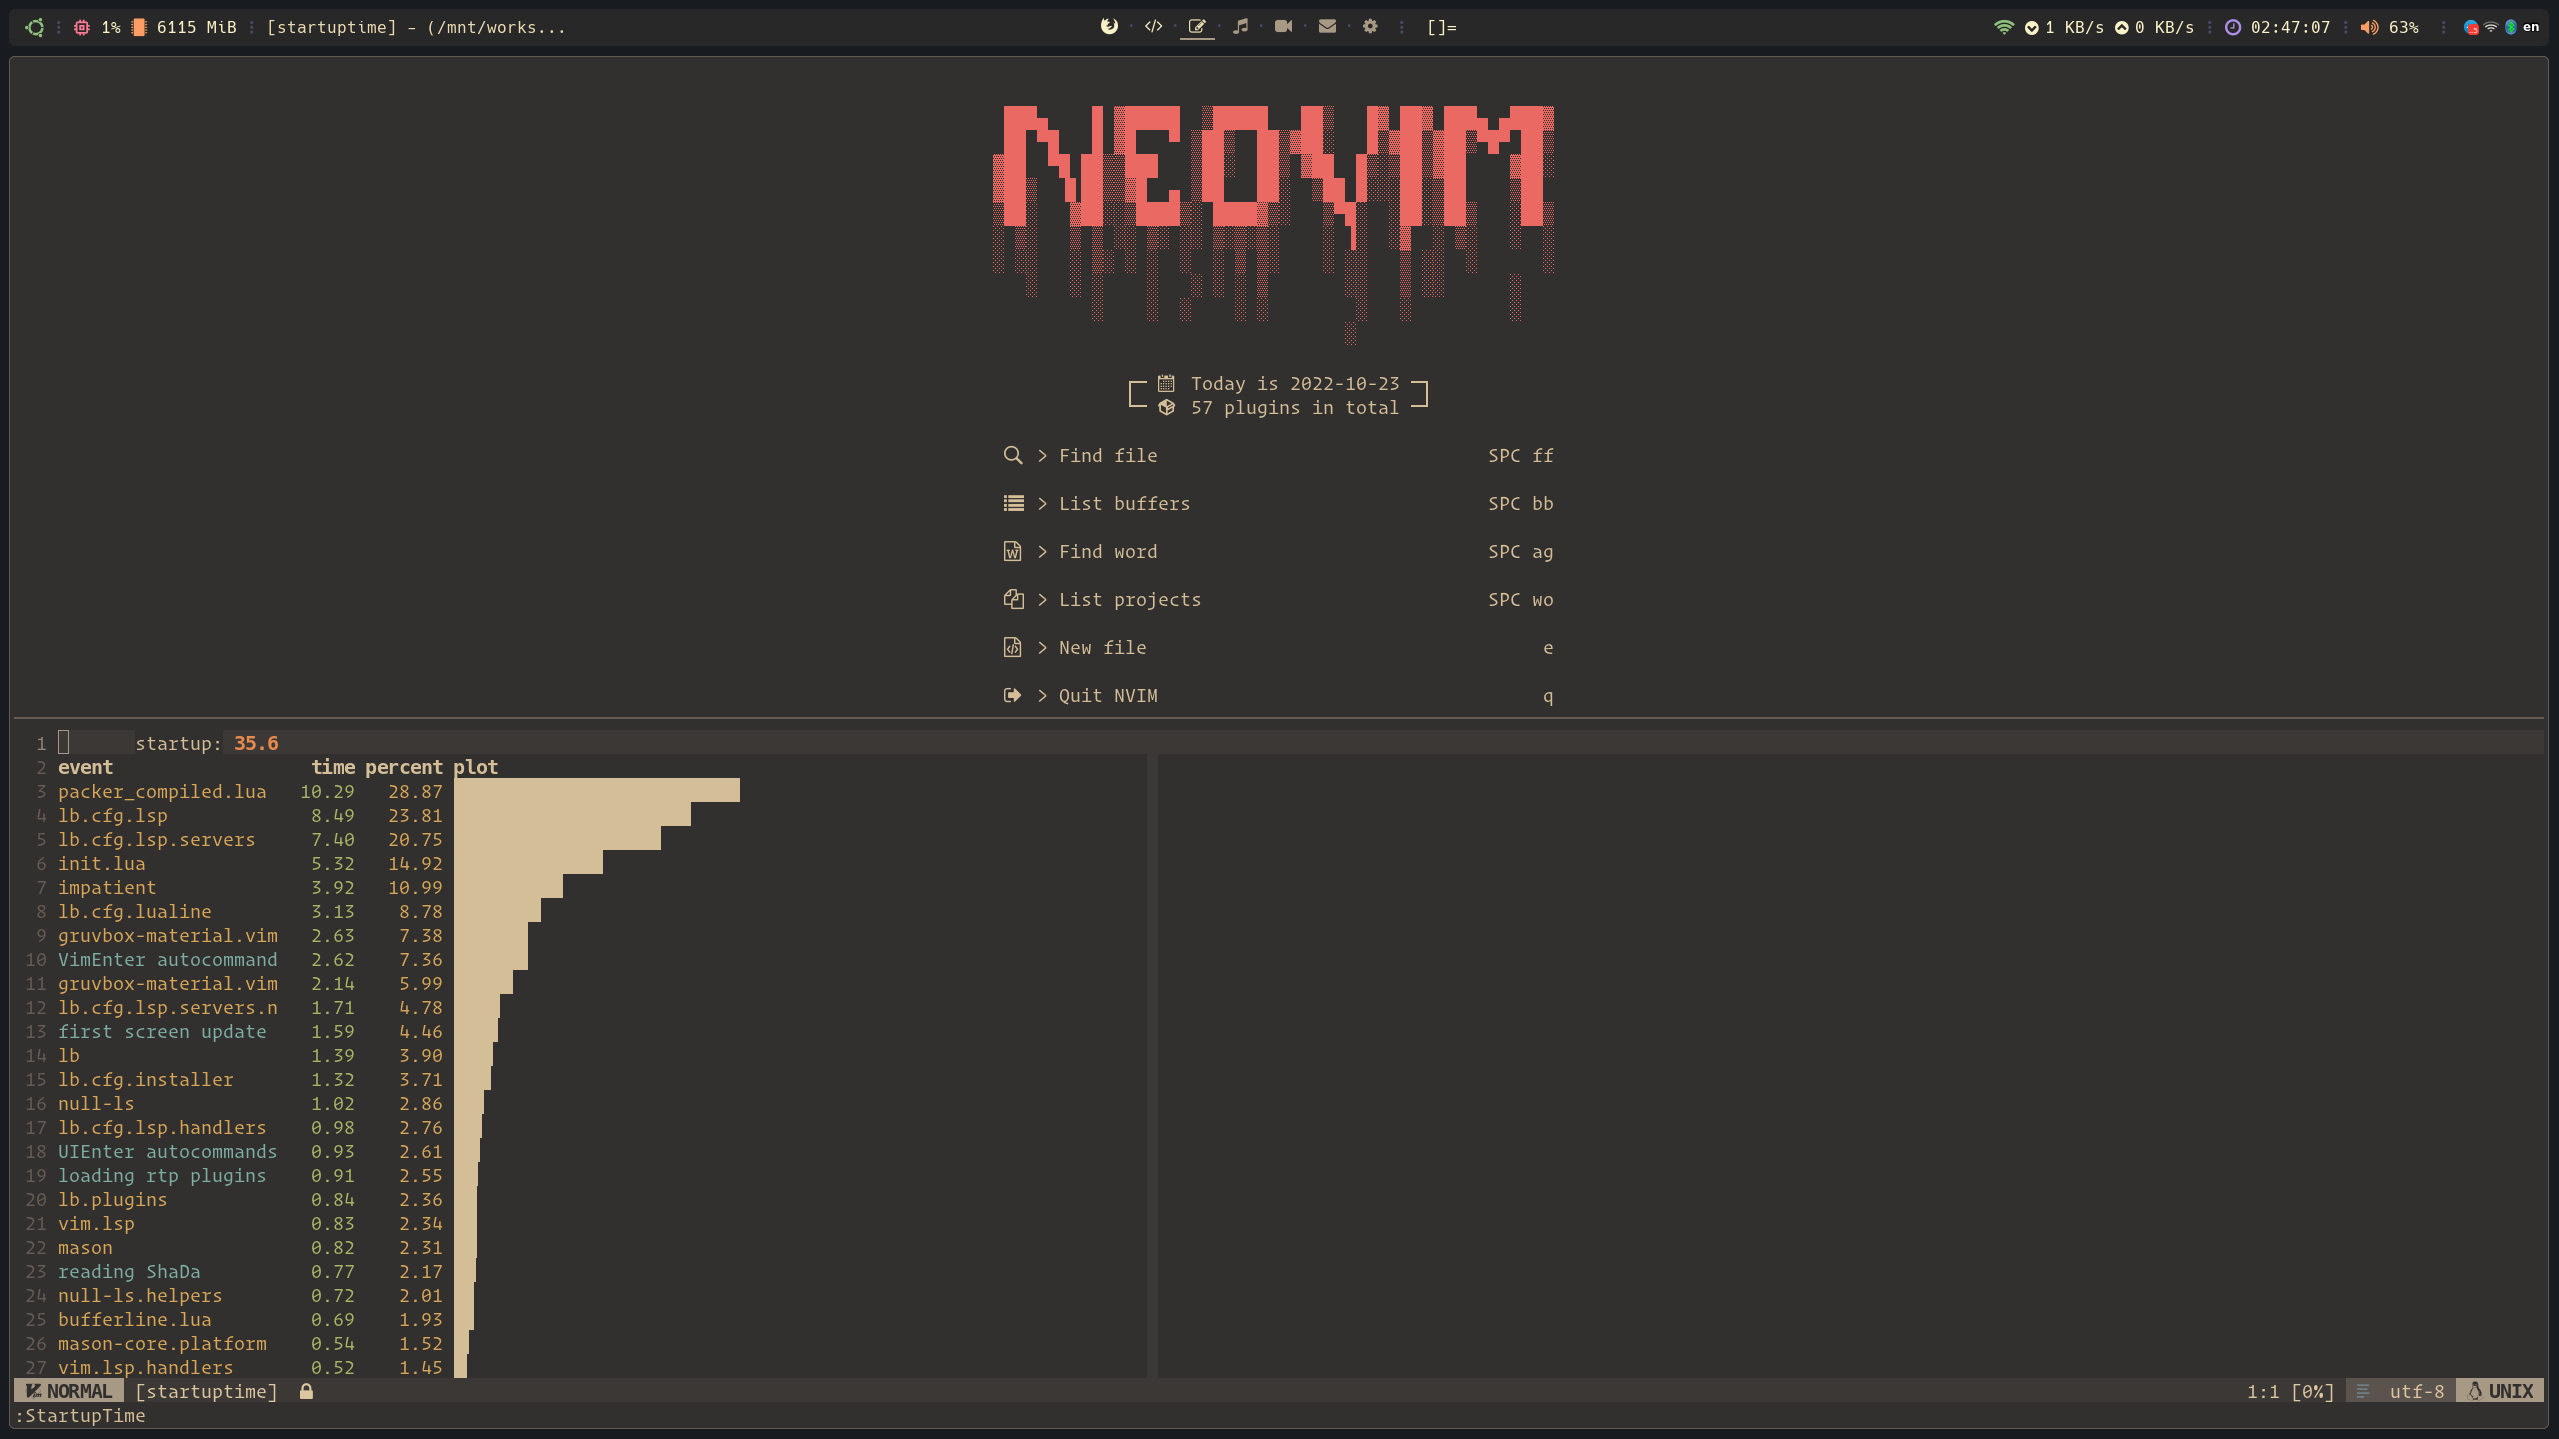
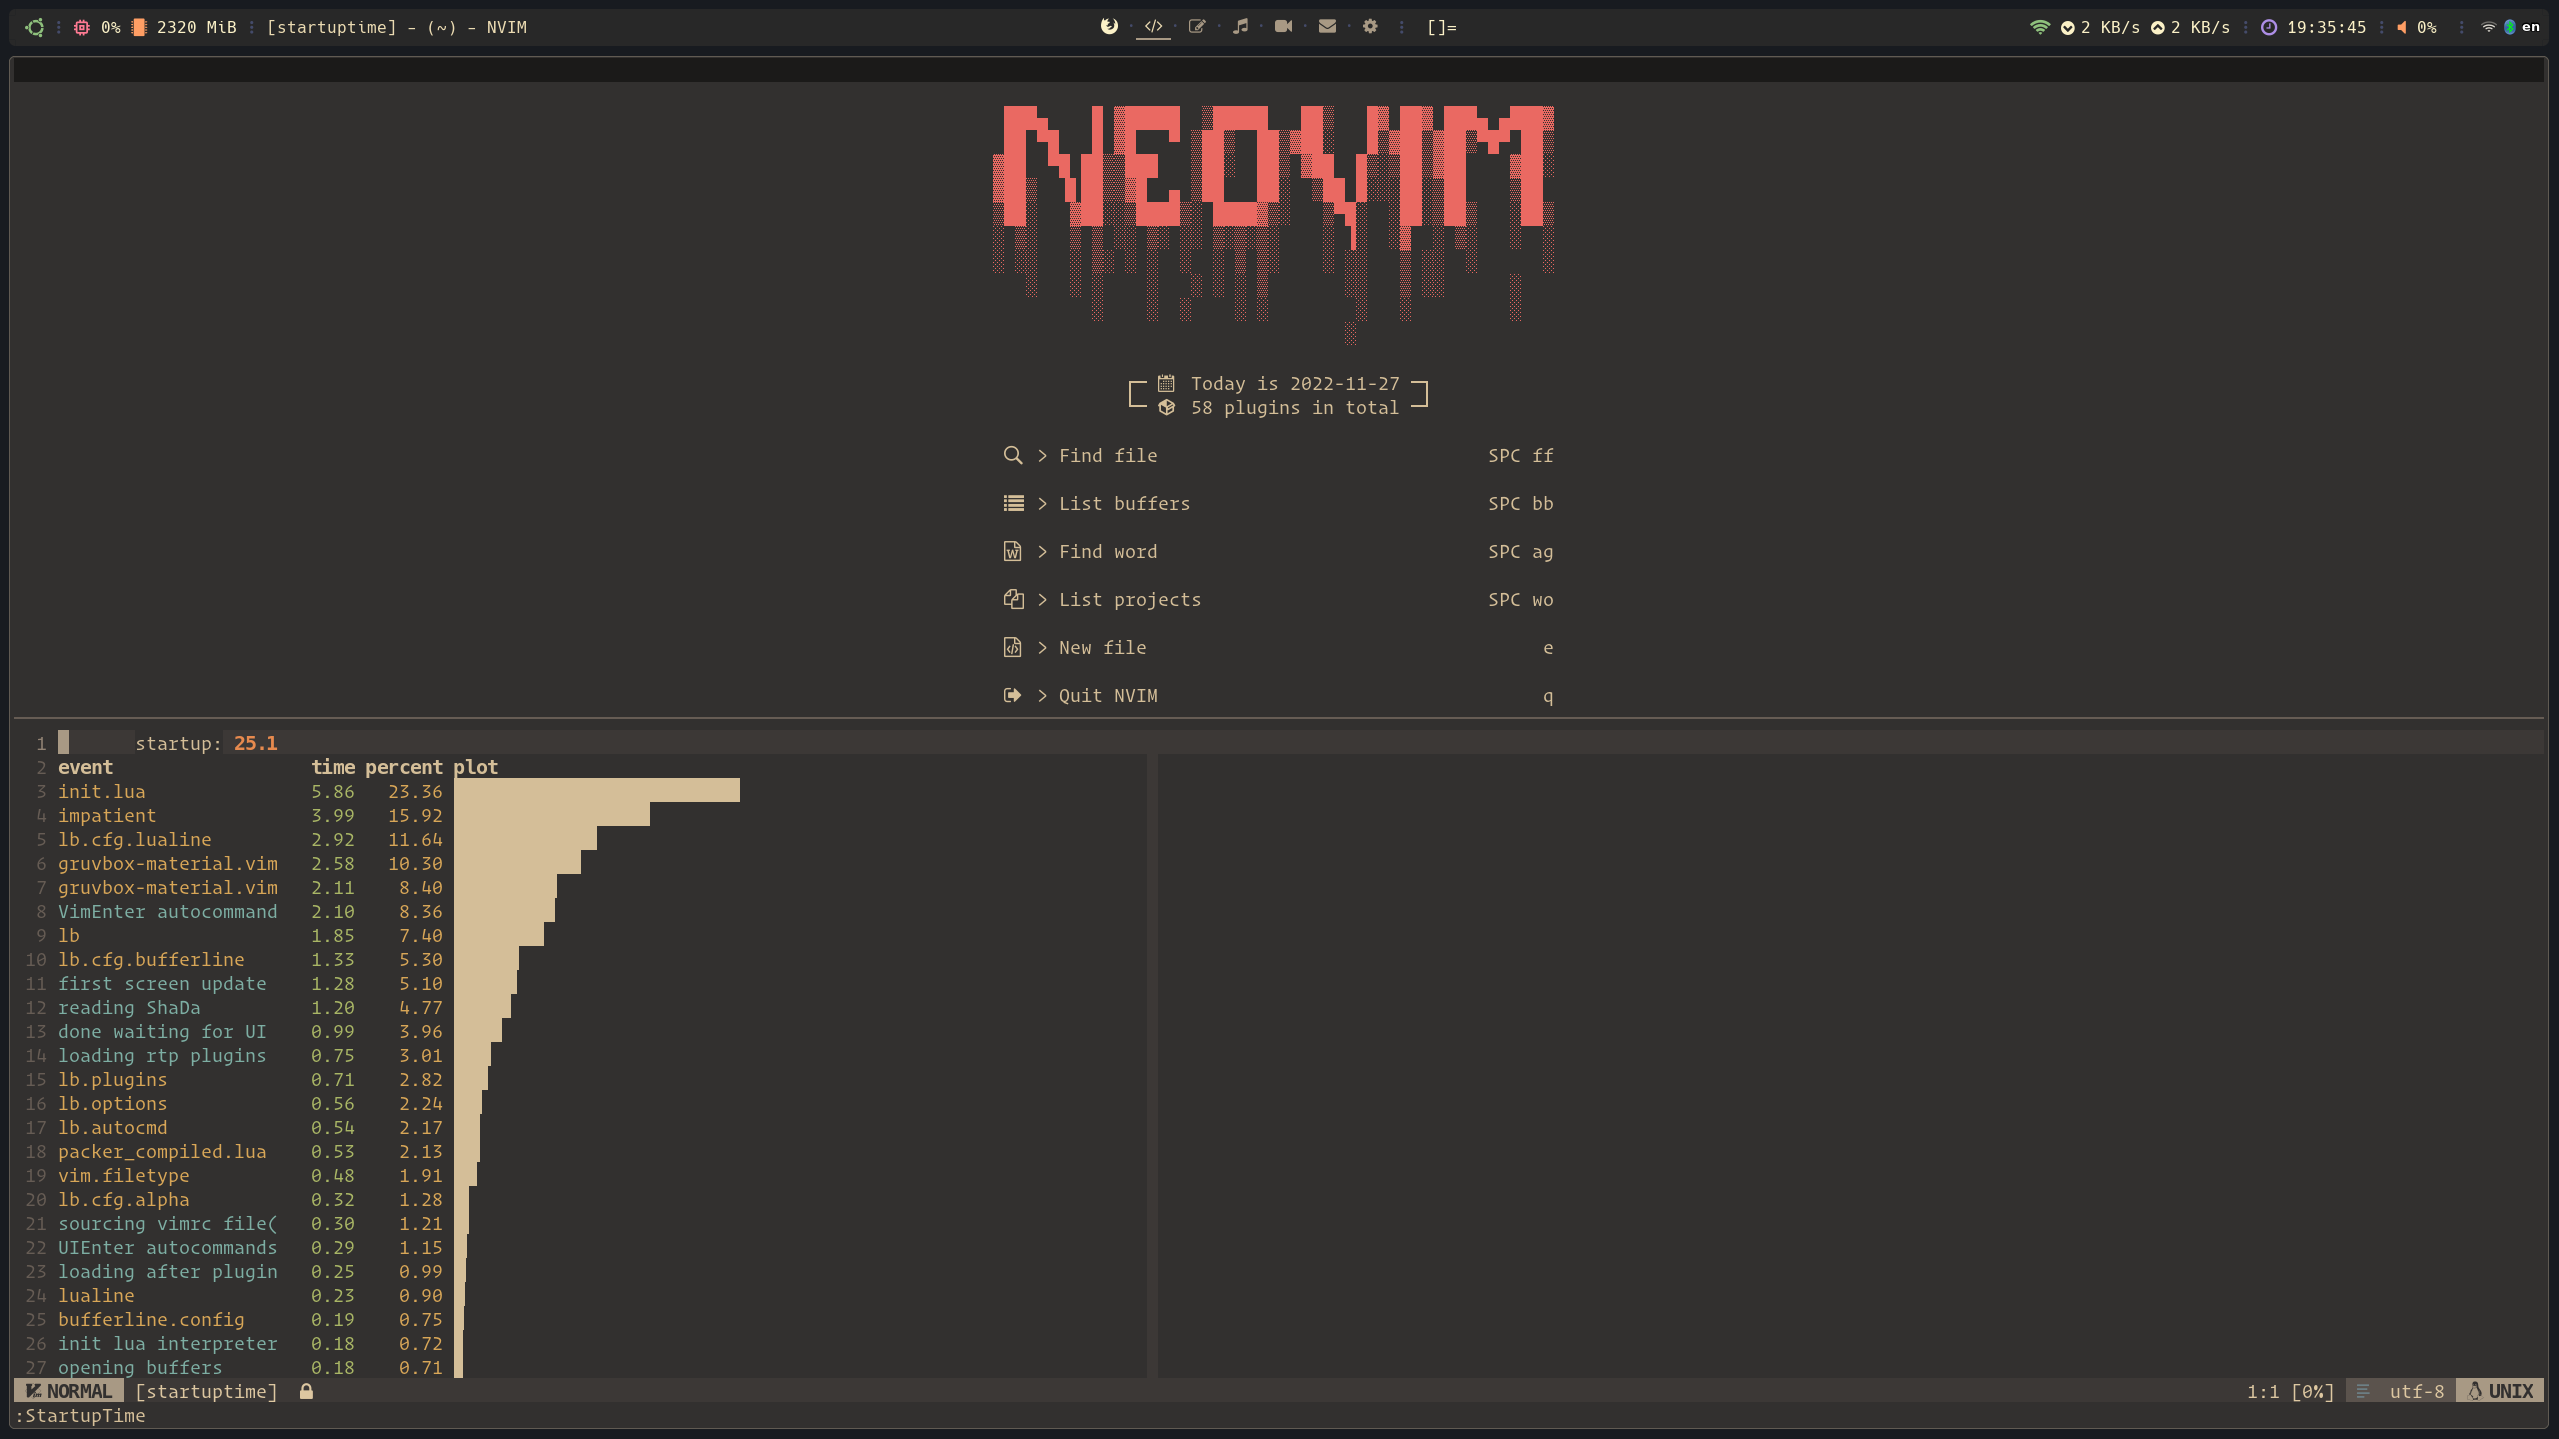
update README

diff --git a/README.md b/README.md
@@ -25,6 +25,17 @@
 
 ![nvim](./static/2.png)
 
+**Pros:**
+
+- Fast. Less than **30ms** to start (Depends on SSD and CPU, tested on Intel NUC11BTMi9).
+- Simple. Run out of the box.
+- Modern. Pure lua to config.
+- Powerful. Full functionality to code.
+
+![nvim](./static/3.png)
+
+(Tested with [rhysd/vim-startuptime](https://github.com/rhysd/vim-startuptime))
+
 ## Try out
 
 If you have [Docker](https://www.docker.com/) on your system you can try out this config via the provided `Dockerfile`
@@ -34,7 +45,6 @@ If you have [Docker](https://www.docker.com/) on your system you can try out thi
 ```bash
 docker run -it --rm liubang/nvim
 ```
-
 ### Mount a local directory and start nvim
 
 ```bash
